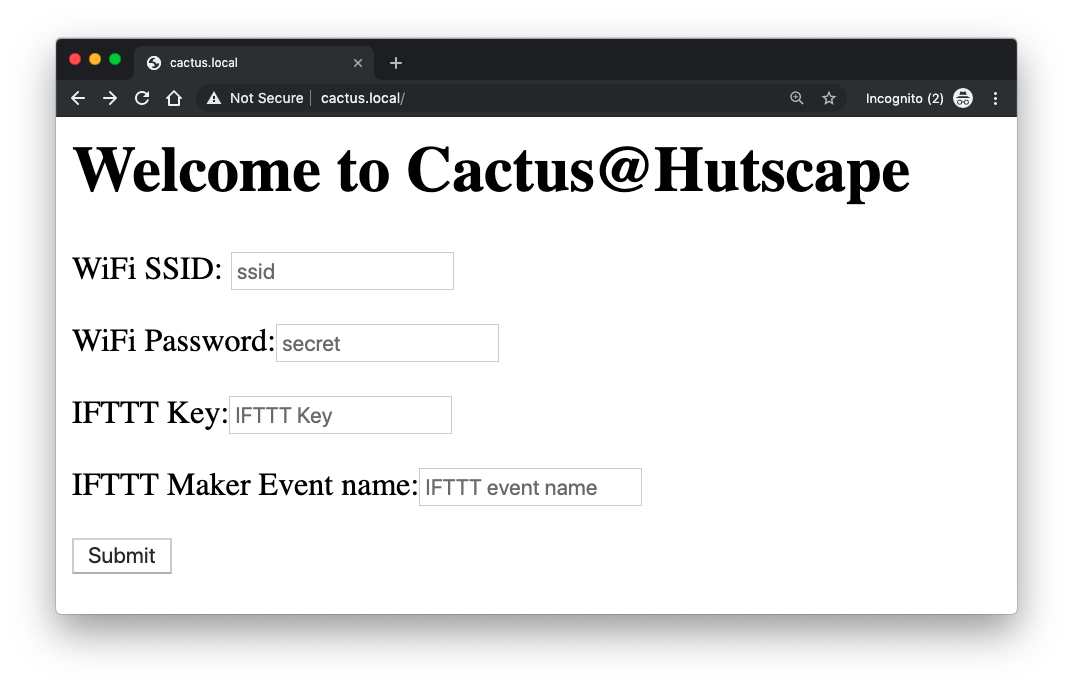
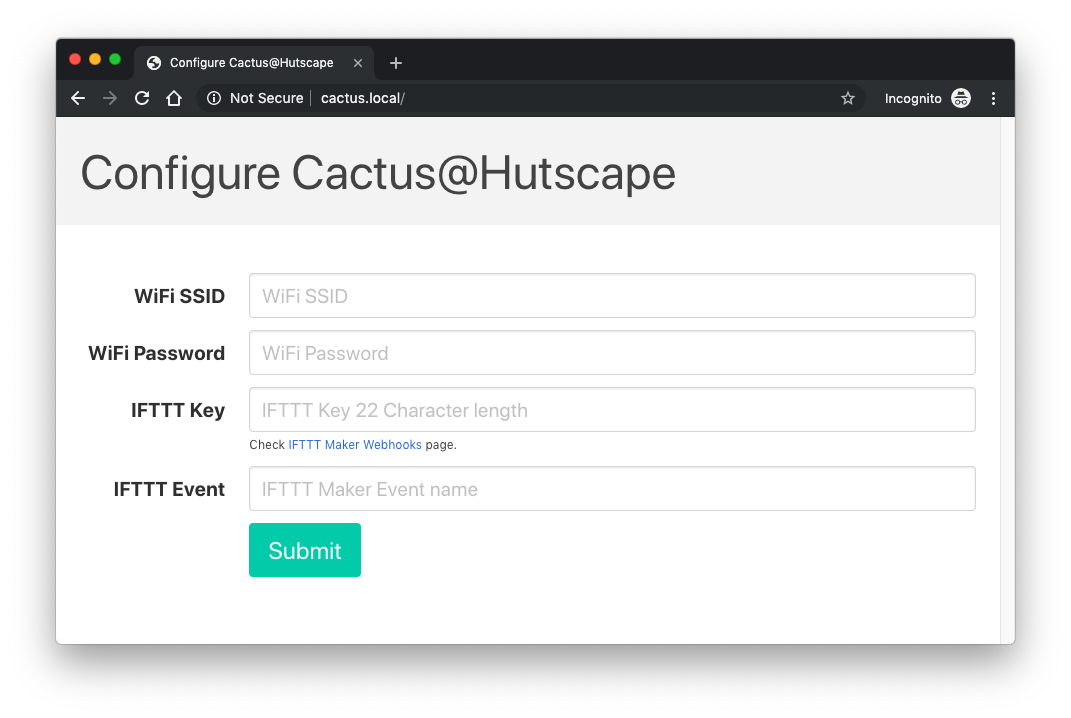
[firmware] Use inline styles for AP mode web page

diff --git a/web-config/index.html b/web-config/index.html
@@ -1,7 +1,7 @@
 <html>
 <head>
   <title>Configure Cactus@Hutscape</title>
-  <style>@-webkit-keyframes spinAround{}.button{-webkit-touch-callout:none;-webkit-user-select:none;-moz-user-select:none;-ms-user-select:none;user-select:none}.button,.input{-moz-appearance:none;-webkit-appearance:none;align-items:center;border:1px solid transparent;border-radius:4px;box-shadow:none;display:inline-flex;font-size:1rem;height:2.25em;justify-content:flex-start;line-height:1.5;padding-bottom:calc(.375em - 1px);padding-left:calc(.625em - 1px);padding-right:calc(.625em - 1px);padding-top:calc(.375em - 1px);position:relative;vertical-align:top}.button:active,.button:focus,.input:active,.input:focus{outline:0}/*! minireset.css v0.0.4 | MIT License | github.com/jgthms/minireset.css */body,h1,html,p{margin:0;padding:0}h1{font-size:100%;font-weight:400}input{margin:0}html{box-sizing:border-box}*,::after,::before{box-sizing:inherit}html{background-color:#fff;font-size:16px;-moz-osx-font-smoothing:grayscale;-webkit-font-smoothing:antialiased;min-width:300px;overflow-x:hidden;overflow-y:scroll;text-rendering:optimizeLegibility;-webkit-text-size-adjust:100%;-moz-text-size-adjust:100%;-ms-text-size-adjust:100%;text-size-adjust:100%}section{display:block}body,input{font-family:BlinkMacSystemFont,-apple-system,'Segoe UI',Roboto,Oxygen,Ubuntu,Cantarell,'Fira Sans','Droid Sans','Helvetica Neue',Helvetica,Arial,sans-serif}body{color:#4a4a4a;font-size:1em;font-weight:400;line-height:1.5}a{color:#3273dc;cursor:pointer;text-decoration:none}a:hover{color:#363636}.button{background-color:#fff;border-color:#dbdbdb;border-width:1px;color:#363636;cursor:pointer;justify-content:center;padding-bottom:calc(.375em - 1px);padding-left:.75em;padding-right:.75em;padding-top:calc(.375em - 1px);text-align:center;white-space:nowrap}.button:hover{border-color:#b5b5b5;color:#363636}.button:focus{border-color:#3273dc;color:#363636}.button.is-focused:not(:active),.button:focus:not(:active){box-shadow:0 0 0 .125em rgba(50,115,220,.25)}.button:active{border-color:#4a4a4a;color:#363636}.button.is-white.is-focused:not(:active),.button.is-white:focus:not(:active){box-shadow:0 0 0 .125em rgba(255,255,255,.25)}.button.is-black.is-focused:not(:active),.button.is-black:focus:not(:active){box-shadow:0 0 0 .125em rgba(10,10,10,.25)}.button.is-light.is-focused:not(:active),.button.is-light:focus:not(:active){box-shadow:0 0 0 .125em rgba(245,245,245,.25)}.button.is-dark.is-focused:not(:active),.button.is-dark:focus:not(:active){box-shadow:0 0 0 .125em rgba(54,54,54,.25)}.button.is-primary{background-color:#00d1b2;border-color:transparent;color:#fff}.button.is-primary:hover{background-color:#00c4a7;border-color:transparent;color:#fff}.button.is-primary:focus{border-color:transparent;color:#fff}.button.is-primary.is-focused:not(:active),.button.is-primary:focus:not(:active){box-shadow:0 0 0 .125em rgba(0,209,178,.25)}.button.is-primary:active{background-color:#00b89c;border-color:transparent;color:#fff}.button.is-link.is-focused:not(:active),.button.is-link:focus:not(:active){box-shadow:0 0 0 .125em rgba(50,115,220,.25)}.button.is-info.is-focused:not(:active),.button.is-info:focus:not(:active){box-shadow:0 0 0 .125em rgba(32,156,238,.25)}.button.is-success.is-focused:not(:active),.button.is-success:focus:not(:active){box-shadow:0 0 0 .125em rgba(35,209,96,.25)}.button.is-warning.is-focused:not(:active),.button.is-warning:focus:not(:active){box-shadow:0 0 0 .125em rgba(255,221,87,.25)}.button.is-danger.is-focused:not(:active),.button.is-danger:focus:not(:active){box-shadow:0 0 0 .125em rgba(255,56,96,.25)}.button.is-large{font-size:1.5rem}.container{flex-grow:1;margin:0 auto;position:relative;width:auto}@media screen and (min-width:1024px){.container{max-width:960px}}@media screen and (min-width:1216px){.container{max-width:1152px}}@media screen and (min-width:1408px){.container{max-width:1344px}}.subtitle{word-break:break-word}.subtitle{color:#4a4a4a;font-size:1.25rem;font-weight:400;line-height:1.25}.subtitle.is-1{font-size:3rem}.input{background-color:#fff;border-color:#dbdbdb;border-radius:4px;color:#363636}.input::-moz-placeholder{color:rgba(54,54,54,.3)}.input::-webkit-input-placeholder{color:rgba(54,54,54,.3)}.input:-moz-placeholder{color:rgba(54,54,54,.3)}.input:-ms-input-placeholder{color:rgba(54,54,54,.3)}.input:hover{border-color:#b5b5b5}.input:active,.input:focus{border-color:#3273dc;box-shadow:0 0 0 .125em rgba(50,115,220,.25)}.input{box-shadow:inset 0 1px 2px rgba(10,10,10,.1);max-width:100%;width:100%}.is-medium.input{font-size:1.25rem}.select.is-white:not(:hover)::after{border-color:#fff}.select.is-black:not(:hover)::after{border-color:#0a0a0a}.select.is-light:not(:hover)::after{border-color:#f5f5f5}.select.is-dark:not(:hover)::after{border-color:#363636}.select.is-primary:not(:hover)::after{border-color:#00d1b2}.select.is-link:not(:hover)::after{border-color:#3273dc}.select.is-info:not(:hover)::after{border-color:#209cee}.select.is-success:not(:hover)::after{border-color:#23d160}.select.is-warning:not(:hover)::after{border-color:#ffdd57}.select.is-danger:not(:hover)::after{border-color:#ff3860}.label{color:#363636;display:block;font-size:1rem;font-weight:700}.help{display:block;font-size:.75rem;margin-top:.25rem}.field:not(:last-child){margin-bottom:.75rem}@media screen and (min-width:769px),print{.field.is-horizontal{display:flex}}.field-label .label{font-size:inherit}@media screen and (max-width:768px){.field-label{margin-bottom:.5rem}}@media screen and (min-width:769px),print{.field-label{flex-basis:0;flex-grow:1;flex-shrink:0;margin-right:1.5rem;text-align:right}.field-label.is-medium{font-size:1.25rem;padding-top:.375em}}@media screen and (min-width:769px),print{.field-body{display:flex;flex-basis:0;flex-grow:5;flex-shrink:1}.field-body .field{margin-bottom:0}.field-body>.field{flex-shrink:1}.field-body>.field:not(.is-narrow){flex-grow:1}}.control{box-sizing:border-box;clear:both;font-size:1rem;position:relative;text-align:left}@media screen and (min-width:1024px){.navbar-link.is-active:not(:focus):not(:hover),a.navbar-item.is-active:not(:focus):not(:hover){background-color:transparent}}.hero{align-items:stretch;display:flex;flex-direction:column;justify-content:space-between}.hero.is-light{background-color:#f5f5f5;color:#363636}.hero.is-light .subtitle{color:rgba(54,54,54,.9)}.hero.is-small .hero-body{padding-bottom:1.5rem;padding-top:1.5rem}.hero-body{flex-grow:1;flex-shrink:0;padding:3rem 1.5rem}.section{padding:3rem 1.5rem}</style>
+  <style>.button { -webkit-touch-callout:none; -webkit-user-select:none; -moz-user-select:none; -ms-user-select:none; user-select:none } .button,.input { -moz-appearance:none; -webkit-appearance:none; align-items:center; border:1px solid transparent; border-radius:4px; box-shadow:none; display:inline-flex; font-size:1rem; height:2.25em; justify-content:flex-start; line-height:1.5; padding-bottom:calc(.375em - 1px); padding-left:calc(.625em - 1px); padding-right:calc(.625em - 1px); padding-top:calc(.375em - 1px); position:relative; vertical-align:top } .button:active, .button:focus, .input:active, .input:focus { outline:0 } body,h1,html,p { margin:0; padding:0} h1 {font-size:100%; font-weight:400} input {margin:0} html {box-sizing:border-box} *,::after,::before {box-sizing:inherit} html{ background-color:#fff; font-size:16px; -moz-osx-font-smoothing:grayscale; -webkit-font-smoothing:antialiased; min-width:300px; overflow-x:hidden; overflow-y:scroll; text-rendering:optimizeLegibility; -webkit-text-size-adjust:100%; -moz-text-size-adjust:100%; -ms-text-size-adjust:100%; text-size-adjust:100%} section {display:block} body,input {font-family:BlinkMacSystemFont,-apple-system,'Segoe UI',Roboto,Oxygen,Ubuntu,Cantarell,'Fira Sans','Droid Sans','Helvetica Neue',Helvetica,Arial,sans-serif} body {color:#4a4a4a; font-size:1em; font-weight:400; line-height:1.5} a {color:#3273dc; cursor:pointer; text-decoration:none} a:hover {color:#363636}.button {background-color:#fff; border-color:#dbdbdb; border-width:1px; color:#363636; cursor:pointer; justify-content:center; padding-bottom:calc(.375em - 1px); padding-left:.75em; padding-right:.75em; padding-top:calc(.375em - 1px); text-align:center; white-space:nowrap}.button:hover {border-color:#b5b5b5; color:#363636}.button:focus {border-color:#3273dc; color:#363636}.button.is-focused:not(:active),.button:focus:not(:active) {box-shadow:0 0 0 .125em rgba(50,115,220,.25)}.button:active {border-color:#4a4a4a; color:#363636} .button.is-primary {background-color:#00d1b2; border-color:transparent; color:#fff} .button.is-primary:hover {background-color:#00c4a7; border-color:transparent; color:#fff} .button.is-primary:focus {border-color:transparent; color:#fff} .button.is-primary.is-focused:not(:active), .button.is-primary:focus:not(:active) {box-shadow:0 0 0 .125em rgba(0,209,178,.25)} .button.is-primary:active {background-color:#00b89c; border-color:transparent; color:#fff} .button.is-large {font-size:1.5rem}.container {flex-grow:1; margin:0 auto; position:relative; width:auto} @media screen and (min-width:1024px) {.container {max-width:960px}} @media screen and (min-width:1216px) {.container {max-width:1152px}} @media screen and (min-width:1408px) { }.container {max-width:1344px}}.subtitle {word-break:break-word}.subtitle {color:#4a4a4a; font-size:1.25rem; font-weight:400; line-height:1.25}.subtitle.is-1 {font-size:3rem}.input {background-color:#fff; border-color:#dbdbdb; border-radius:4px; color:#363636}.input::-moz-placeholder {color:rgba(54,54,54,.3)}.input::-webkit-input-placeholder {color:rgba(54,54,54,.3)}.input:-moz-placeholder {color:rgba(54,54,54,.3)}.input:-ms-input-placeholder {color:rgba(54,54,54,.3)}.input:hover {border-color:#b5b5b5}.input:active,.input:focus {border-color:#3273dc; box-shadow:0 0 0 .125em rgba(50,115,220,.25)}.input {box-shadow:inset 0 1px 2px rgba(10,10,10,.1); max-width:100%; width:100%}.is-medium.input {font-size:1.25rem}.select.is-white:not(:hover)::after {border-color:#fff}.select.is-black:not(:hover)::after {border-color:#0a0a0a}.select.is-light:not(:hover)::after {border-color:#f5f5f5}.select.is-dark:not(:hover)::after {border-color:#363636}.select.is-primary:not(:hover)::after {border-color:#00d1b2}.select.is-link:not(:hover)::after {border-color:#3273dc}.select.is-info:not(:hover)::after {border-color:#209cee}.select.is-success:not(:hover)::after {border-color:#23d160}.select.is-warning:not(:hover)::after {border-color:#ffdd57}.select.is-danger:not(:hover)::after {border-color:#ff3860}.label {color:#363636; display:block; font-size:1rem; font-weight:700}.help {display:block; font-size:.75rem; margin-top:.25rem}.field:not(:last-child) {margin-bottom:.75rem} @media screen and (min-width:769px),print {.field.is-horizontal {display:flex}}.field-label .label {font-size:inherit} @media screen and (max-width:768px) {.field-label {margin-bottom:.5rem}} @media screen and (min-width:769px),print {.field-label {flex-basis:0; flex-grow:1; flex-shrink:0; margin-right:1.5rem; text-align:right}.field-label.is-medium {font-size:1.25rem; padding-top:.375em}} @media screen and (min-width:769px),print {.field-body {display:flex; flex-basis:0; flex-grow:5; flex-shrink:1}.field-body .field {margin-bottom:0}.field-body>.field {flex-shrink:1}.field-body>.field:not(.is-narrow) {flex-grow:1}}.control {box-sizing:border-box; clear:both; font-size:1rem; position:relative; text-align:left} @media screen and (min-width:1024px) {.navbar-link.is-active:not(:focus):not(:hover),a.navbar-item.is-active:not(:focus):not(:hover) {background-color:transparent}}.hero {align-items:stretch; display:flex; flex-direction:column; justify-content:space-between}.hero.is-light {background-color:#f5f5f5; color:#363636}.hero.is-light .subtitle {color:rgba(54,54,54,.9)}.hero.is-small .hero-body {padding-bottom:1.5rem; padding-top:1.5rem}.hero-body {flex-grow:1; flex-shrink:0; padding:3rem 1.5rem}.section {padding:3rem 1.5rem}</style>
 </head>
 <body>
   <section class='hero is-small is-light'>
@@ -71,7 +71,6 @@
 
         <div class='field is-horizontal'>
           <div class='field-label'>
-            <!-- Left empty for spacing -->
           </div>
           <div class='field-body'>
             <div class='field'>

diff --git a/firmware/web.h b/firmware/web.h
@@ -1,1 +1,1 @@
-String content = "<html><body><section class='hero is-small is-light'><div class='hero-body'><div class='container'><h1 class='subtitle is-1'>Configure Cactus@Hutscape</h1></div></div></section><section class='section is-small'><div class='container'><form action='/' method='post'><div class='field is-horizontal'><div class='field-label is-medium'><label class='label'>WiFi SSID</label></div><div class='field-body'><div class='field'><div class='control'><input class='input is-medium' type='text' name='ssid' placeholder='WiFi SSID'></div></div></div></div><div class='field is-horizontal'><div class='field-label is-medium'><label class='label'>WiFi Password</label></div><div class='field-body'><div class='field'><div class='control'><input class='input is-medium' type='password' name='password' placeholder='WiFi Password'></div></div></div></div><div class='field is-horizontal'><div class='field-label is-medium'><label class='label'>IFTTT Key</label></div><div class='field-body'><div class='field'><div class='control'><input class='input is-medium' type='text' name='key' placeholder='IFTTT Key 22 Character length'></div><p class='help'>Check <a href='https://ifttt.com/maker_webhooks'>IFTTT Maker Webhooks</a> page.</p></div></div></div><div class='field is-horizontal'><div class='field-label is-medium'><label class='label'>IFTTT Event</label></div><div class='field-body'><div class='field'><div class='control'><input class='input is-medium' type='text' name='event' placeholder='IFTTT Maker Event name'></div></div></div></div><div class='field is-horizontal'><div class='field-label'></div><div class='field-body'><div class='field'><div class='control'><input type='submit' class='button is-primary is-large' name='submit' value='Submit'></div></div></div></div></form></div></section></body></html>";
+String content = "<html><head><title>Configure Cactus@Hutscape</title><style>.button { -webkit-touch-callout:none; -webkit-user-select:none; -moz-user-select:none; -ms-user-select:none; user-select:none } .button,.input { -moz-appearance:none; -webkit-appearance:none; align-items:center; border:1px solid transparent; border-radius:4px; box-shadow:none; display:inline-flex; font-size:1rem; height:2.25em; justify-content:flex-start; line-height:1.5; padding-bottom:calc(.375em - 1px); padding-left:calc(.625em - 1px); padding-right:calc(.625em - 1px); padding-top:calc(.375em - 1px); position:relative; vertical-align:top } .button:active, .button:focus, .input:active, .input:focus { outline:0 } body,h1,html,p { margin:0; padding:0} h1 {font-size:100%; font-weight:400} input {margin:0} html {box-sizing:border-box} *,::after,::before {box-sizing:inherit} html{ background-color:#fff; font-size:16px; -moz-osx-font-smoothing:grayscale; -webkit-font-smoothing:antialiased; min-width:300px; overflow-x:hidden; overflow-y:scroll; text-rendering:optimizeLegibility; -webkit-text-size-adjust:100%; -moz-text-size-adjust:100%; -ms-text-size-adjust:100%; text-size-adjust:100%} section {display:block} body,input {font-family:BlinkMacSystemFont,-apple-system,'Segoe UI',Roboto,Oxygen,Ubuntu,Cantarell,'Fira Sans','Droid Sans','Helvetica Neue',Helvetica,Arial,sans-serif} body {color:#4a4a4a; font-size:1em; font-weight:400; line-height:1.5} a {color:#3273dc; cursor:pointer; text-decoration:none} a:hover {color:#363636}.button {background-color:#fff; border-color:#dbdbdb; border-width:1px; color:#363636; cursor:pointer; justify-content:center; padding-bottom:calc(.375em - 1px); padding-left:.75em; padding-right:.75em; padding-top:calc(.375em - 1px); text-align:center; white-space:nowrap}.button:hover {border-color:#b5b5b5; color:#363636}.button:focus {border-color:#3273dc; color:#363636}.button.is-focused:not(:active),.button:focus:not(:active) {box-shadow:0 0 0 .125em rgba(50,115,220,.25)}.button:active {border-color:#4a4a4a; color:#363636} .button.is-primary {background-color:#00d1b2; border-color:transparent; color:#fff} .button.is-primary:hover {background-color:#00c4a7; border-color:transparent; color:#fff} .button.is-primary:focus {border-color:transparent; color:#fff} .button.is-primary.is-focused:not(:active), .button.is-primary:focus:not(:active) {box-shadow:0 0 0 .125em rgba(0,209,178,.25)} .button.is-primary:active {background-color:#00b89c; border-color:transparent; color:#fff} .button.is-large {font-size:1.5rem}.container {flex-grow:1; margin:0 auto; position:relative; width:auto} @media screen and (min-width:1024px) {.container {max-width:960px}} @media screen and (min-width:1216px) {.container {max-width:1152px}} @media screen and (min-width:1408px) { }.container {max-width:1344px}}.subtitle {word-break:break-word}.subtitle {color:#4a4a4a; font-size:1.25rem; font-weight:400; line-height:1.25}.subtitle.is-1 {font-size:3rem}.input {background-color:#fff; border-color:#dbdbdb; border-radius:4px; color:#363636}.input::-moz-placeholder {color:rgba(54,54,54,.3)}.input::-webkit-input-placeholder {color:rgba(54,54,54,.3)}.input:-moz-placeholder {color:rgba(54,54,54,.3)}.input:-ms-input-placeholder {color:rgba(54,54,54,.3)}.input:hover {border-color:#b5b5b5}.input:active,.input:focus {border-color:#3273dc; box-shadow:0 0 0 .125em rgba(50,115,220,.25)}.input {box-shadow:inset 0 1px 2px rgba(10,10,10,.1); max-width:100%; width:100%}.is-medium.input {font-size:1.25rem}.select.is-white:not(:hover)::after {border-color:#fff}.select.is-black:not(:hover)::after {border-color:#0a0a0a}.select.is-light:not(:hover)::after {border-color:#f5f5f5}.select.is-dark:not(:hover)::after {border-color:#363636}.select.is-primary:not(:hover)::after {border-color:#00d1b2}.select.is-link:not(:hover)::after {border-color:#3273dc}.select.is-info:not(:hover)::after {border-color:#209cee}.select.is-success:not(:hover)::after {border-color:#23d160}.select.is-warning:not(:hover)::after {border-color:#ffdd57}.select.is-danger:not(:hover)::after {border-color:#ff3860}.label {color:#363636; display:block; font-size:1rem; font-weight:700}.help {display:block; font-size:.75rem; margin-top:.25rem}.field:not(:last-child) {margin-bottom:.75rem} @media screen and (min-width:769px),print {.field.is-horizontal {display:flex}}.field-label .label {font-size:inherit} @media screen and (max-width:768px) {.field-label {margin-bottom:.5rem}} @media screen and (min-width:769px),print {.field-label {flex-basis:0; flex-grow:1; flex-shrink:0; margin-right:1.5rem; text-align:right}.field-label.is-medium {font-size:1.25rem; padding-top:.375em}} @media screen and (min-width:769px),print {.field-body {display:flex; flex-basis:0; flex-grow:5; flex-shrink:1}.field-body .field {margin-bottom:0}.field-body>.field {flex-shrink:1}.field-body>.field:not(.is-narrow) {flex-grow:1}}.control {box-sizing:border-box; clear:both; font-size:1rem; position:relative; text-align:left} @media screen and (min-width:1024px) {.navbar-link.is-active:not(:focus):not(:hover),a.navbar-item.is-active:not(:focus):not(:hover) {background-color:transparent}}.hero {align-items:stretch; display:flex; flex-direction:column; justify-content:space-between}.hero.is-light {background-color:#f5f5f5; color:#363636}.hero.is-light .subtitle {color:rgba(54,54,54,.9)}.hero.is-small .hero-body {padding-bottom:1.5rem; padding-top:1.5rem}.hero-body {flex-grow:1; flex-shrink:0; padding:3rem 1.5rem}.section {padding:3rem 1.5rem}</style></head><body><section class='hero is-small is-light'><div class='hero-body'><div class='container'><h1 class='subtitle is-1'>Configure Cactus@Hutscape</h1></div></div></section><section class='section is-small'><div class='container'><form action='/' method='post'><div class='field is-horizontal'><div class='field-label is-medium'><label class='label'>WiFi SSID</label></div><div class='field-body'><div class='field'><div class='control'><input class='input is-medium' type='text' name='ssid' placeholder='WiFi SSID'></div></div></div></div><div class='field is-horizontal'><div class='field-label is-medium'><label class='label'>WiFi Password</label></div><div class='field-body'><div class='field'><div class='control'><input class='input is-medium' type='password' name='password' placeholder='WiFi Password'></div></div></div></div><div class='field is-horizontal'><div class='field-label is-medium'><label class='label'>IFTTT Key</label></div><div class='field-body'><div class='field'><div class='control'><input class='input is-medium' type='text' name='key' placeholder='IFTTT Key 22 Character length'></div><p class='help'>Check <a href='https://ifttt.com/maker_webhooks'>IFTTT Maker Webhooks</a> page.</p></div></div></div><div class='field is-horizontal'><div class='field-label is-medium'><label class='label'>IFTTT Event</label></div><div class='field-body'><div class='field'><div class='control'><input class='input is-medium' type='text' name='event' placeholder='IFTTT Maker Event name'></div></div></div></div><div class='field is-horizontal'><div class='field-label'><!-- Left empty for spacing --></div><div class='field-body'><div class='field'><div class='control'><input type='submit' class='button is-primary is-large' name='submit' value='Submit'></div></div></div></div></form></div></section></body></html> ";
